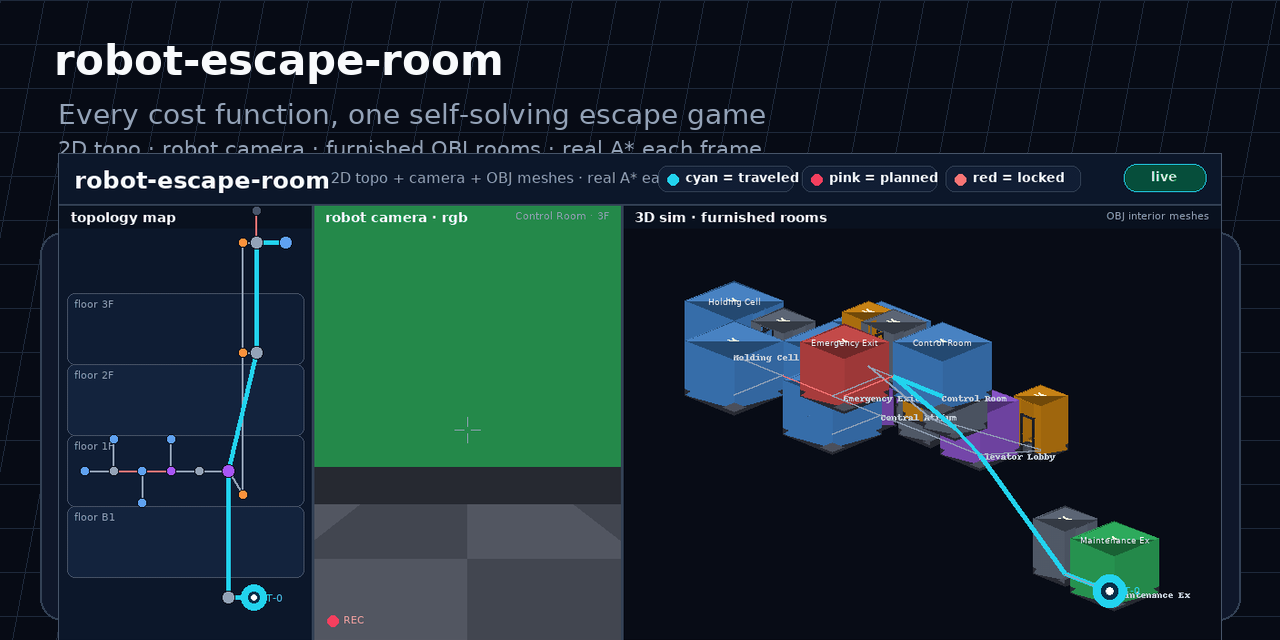
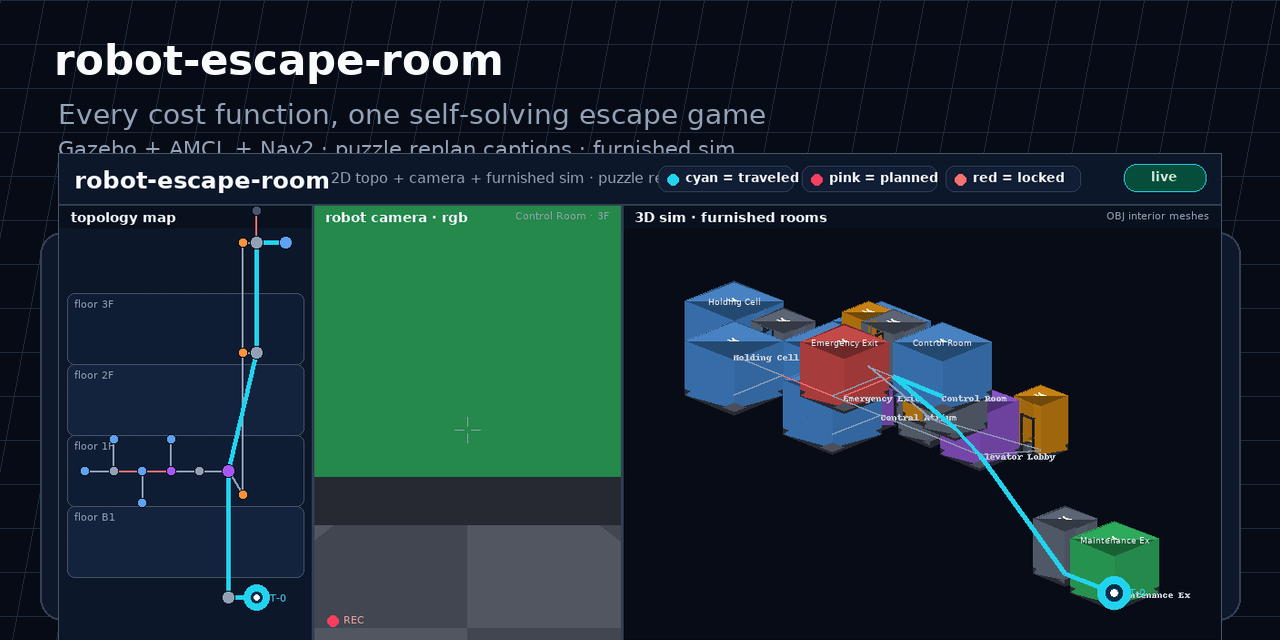
chore(release): v1.0.5 Gazebo Nav2 sim stack + puzzle-caption hero
Bump version and refresh social preview for the escape-room Gazebo/AMCL/Nav2
integration and per-turn hero GIF captions.

diff --git a/examples/build_social_preview.py b/examples/build_social_preview.py
@@ -22,7 +22,7 @@ HERE = Path(__file__).parent
 ROOT = HERE.parent
 # Mid-run frame: route is green, HUD populated, robot mid-leg on the map.
 DEMO_GIF = ROOT / "docs" / "images" / "robot_escape_room.gif"
-DEMO_FRAME_INDEX = 120
+DEMO_FRAME_INDEX = 88
 OUT_PATH = ROOT / "docs" / "images" / "social_preview.png"
 
 W, H = 1280, 640
@@ -103,7 +103,7 @@ def main() -> None:
     )
     draw.text(
         (58, 136),
-        "2D topo · robot camera · furnished OBJ rooms · real A* each frame",
+        "Gazebo + AMCL + Nav2 · puzzle replan captions · furnished sim",
         font=FONT_SMALL, fill=MUTED,
     )
     bx = 58

diff --git a/semantic_toponav/__init__.py b/semantic_toponav/__init__.py
@@ -1,3 +1,3 @@
 """semantic-toponav: semantic topological map navigation."""
 
-__version__ = "1.0.4"
+__version__ = "1.0.5"

diff --git a/CHANGELOG.md b/CHANGELOG.md
@@ -7,6 +7,32 @@ and the project uses [Semantic Versioning](https://semver.org/spec/v2.0.0.html).
 
 ## [Unreleased]
 
+## [1.0.5] — 2026-06-09
+
+Gazebo / Nav2 sim stack + dynamic escape-room replan + puzzle-caption hero refresh.
+No changes to the six v1-locked public wire schemas or core planner behavior.
+
+### Added
+
+- **Gazebo / gz-sim world** — `examples/generate_escape_room_gazebo_world.py`,
+  furnished facility mesh + collision boxes, T-0 diff-drive robot (SDF + URDF).
+- **Nav2 hand-off** — `examples/export_escape_room_nav2_route.py`,
+  `examples/generate_escape_room_nav2_map.py` (wall-rasterized occupancy map).
+- **ROS2 launch** — `escape_room_gz_nav2.launch.py` wires Gazebo, ros_gz_bridge,
+  AMCL, Nav2, and semantic waypoints; `scripts/run_escape_room_gz_nav2.sh`.
+- **T-0 lidar** — 360° GPU lidar on `/scan` for Nav2 obstacle layers.
+- **`semantic_toponav.escape_room`** — puzzle runner library extracted from
+  `robot_escape_room.py`.
+- **`escape_room_runner` ROS node** — dynamic replan on arrival; `/semantic_toponav/escape_room/status`.
+- **`nav2_demo` continuous mode** — preempt NavigateThroughPoses on replan.
+- Foxglove MCAP topic `/semantic_toponav/escape_room/status` (turn captions + events).
+
+### Changed
+
+- README hero GIF regenerated with per-turn puzzle captions (items, riddles, decoy twist).
+- AMCL localization enabled by default in the escape-room Gazebo launch.
+- `docs/images/social_preview.png` refreshed from the new hero.
+
 ## [1.0.4] — 2026-06-09
 
 Escape-room hero refresh: three-panel GIF (2D topo + robot RGB camera +
